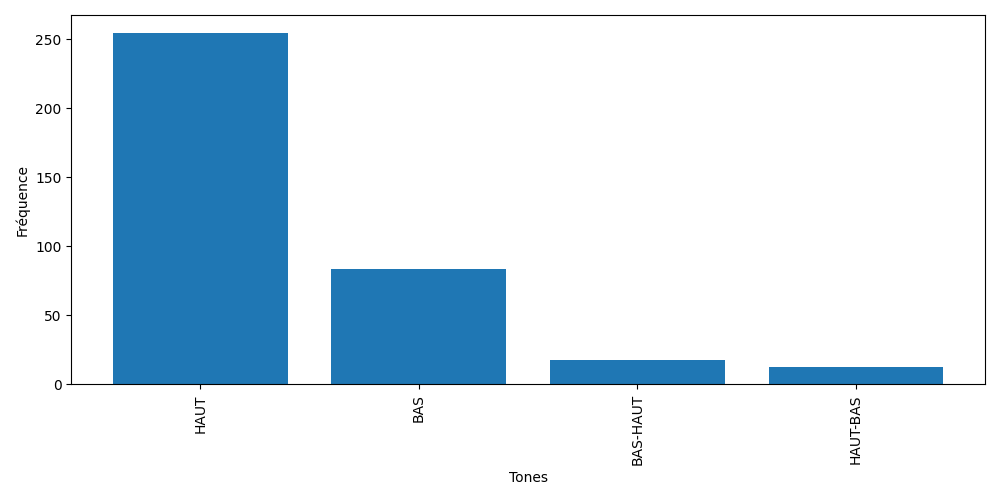
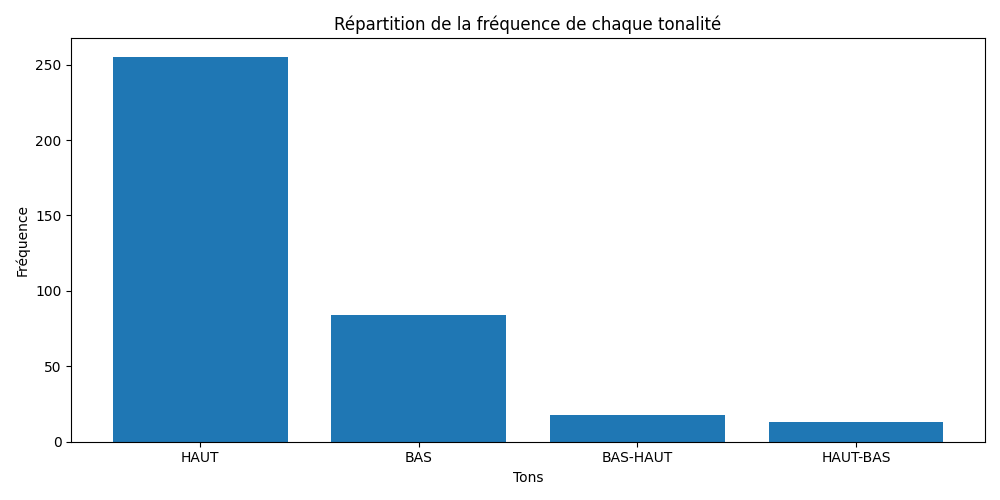
begin readme

diff --git a/Utils/phone_statistics/monophone_count.py b/Utils/phone_statistics/monophone_count.py
@@ -41,10 +41,10 @@ def draw_tone_graph(tone_count_result, output_image_file):
 
     plt.figure(figsize=(10, 5))
     plt.bar(tones, counts, color='#1f77b4')
-    plt.xlabel('Tones')
+    plt.xlabel('Tons')
     plt.ylabel('Fréquence')
-    # plt.title('Répartition de la fréquence de chaque tonalité')
-    plt.xticks(rotation=90)
+    plt.title('Répartition de la fréquence de chaque tonalité')
+    plt.xticks(rotation=360)
     plt.tight_layout()
     plt.savefig(output_image_file)
     plt.close()

diff --git a/README.md b/README.md
@@ -1,0 +1,180 @@
+# Acoustic Model Training and Evaluation
+
+This project provides scripts for training and evaluating acoustic models using monophones and triphones with various configurations. The scripts handle data preparation, feature extraction, model training, alignment, and evaluation.
+
+## Table of Contents
+
+- [Project Structure](#project-structure)
+- [Requirements](#requirements)
+- [Installation](#installation)
+- [Configuration](#configuration)
+- [Usage](#usage)
+- [Scripts Overview](#scripts-overview)
+<!-- - [Configuration](#Configuration) -->
+- [Contributing](#contributing)
+- [License](#license)
+
+## Project Structure
+```
+configs/
+    └── Config.json
+evaluation/
+    ├── evaluation.sh
+    └── make_graph.sh
+feature_extractions/
+    └── features_extractions.sh
+logs/
+    └── error.log
+main.sh
+README.md
+requirements.sh
+requirements.txt
+training/
+    ├── acoustic_model/
+    └── language_model/
+Utils/
+    ├── data_preparation/
+    ├── init_kaldi_projet_structure/
+    ├── phone_statistics/
+    │   └── phone_statistics.sh
+    ├── utils.sh
+    ├── view_ark_file.py
+    └── word_count_occurence.py
+```
+
+## Requirements
+
+- Kaldi
+- Python 3.x
+- NumPy
+- Matplotlib
+- etc
+- Check the `requirements.txt` and `requirements.sh` for more details
+
+
+## Installation
+1. Ensure Kaldi is installed and properly configured. Follow the [Kaldi installation guide](http://kaldi-asr.org/doc/install.html) for detailed instructions.
+
+2. Clone the repository:
+    ```sh
+    git clone https://github.com/yourusername/yourproject.git
+    cd yourproject
+    ```
+
+3. Install the required Python packages to your Python virtual environment:
+    ```sh
+    pip install -r requirements.txt
+    ```
+ 
+3. shell dependencies  
+    Install `jq`:
+    ```sh
+    sudo apt-get install jq
+    ```
+    or ensure that the `requirements.sh` file has execution rights and run:
+    ```sh
+    chmod +x requirements.sh
+    ./requirements.sh
+    ```
+
+
+## Configuration
+
+### Configuring `Config.json`
+
+The `Config.json` file contains paths to your Kaldi installation and Python virtual environment. Here is an example configuration:
+
+```json
+{
+    "kaldi_installation_path" : "/home/dimitri/kaldi",
+    "python_virtual_environement_path" : "/home/dimitri/NdaNdaForceAligner/myvenv"
+}
+```
+
+### Setting Environment Variables
+
+To set the Kaldi installation path as an environment variable, add the following line to your `~/.bashrc` file, replacing the path with your own Kaldi installation path:
+
+```sh
+echo 'export KALDI_INSTALLATION_PATH="/home/dimitri/kaldi"' >> ~/.bashrc
+```
+
+## Usage
+
+1. Prepare your data by placing it in the appropriate directories. You can get the data by using this [link](https://drive.google.com/drive/folders/1tY8o_-wLLheOs6_wHTcrOhRNXHpD0dI0?usp=drive_link). Inside this drive folder, you will find two folders: `mono` and `stereo`. The `mono` folder contains audio data with one channel, and the `stereo` folder contains the same data with two channels. It is recommended to use the `mono` data.
+2. Run the `initialize.sh` script located in the `init_kaldi_projet_structure/` folder. Change the directory to `init_kaldi_projet_structure/` and run the command below, where `<project_name>` is the name of the folder that will contain all the data in Kaldi format:
+
+    ```sh
+    ./initialize.sh <project_name>
+    ```
+
+    This script will create a folder named `<project_name>` inside `YOUR_KALDI_INSTALLATION_PATH/egs`. The created folder will contain all the necessary subfolders required by Kaldi to train a model.
+<p align="center">
+    <img src="https://maelfabien.github.io/assets/images/directorystructure.png" alt="Kaldi Folder Structure">
+</p>
+2. Configure the `main.sh` script with your project-specific settings.
+
+3. Run the main script:
+    ```sh
+    ./main.sh
+    ```
+
+## Scripts Overview
+
+### `main.sh`
+
+The main script orchestrates the entire process, including data preparation, feature extraction, model training, alignment, and evaluation.
+
+### `monophone_count.py`
+
+This script counts the occurrences of monophones and tones, saves the results to CSV files, and generates distribution graphs.
+
+### `triphone_count.py`
+
+This script counts the occurrences of triphones, saves the results to CSV files, and generates distribution graphs.
+
+### `Utils/data_preparation/main_data_preparation.sh`
+
+Prepares the data for training and evaluation.
+
+### `Utils/feature_extractions/features_extractions.sh`
+
+Extracts features from the data for training and testing.
+
+### `training/acoustic_model/monophone_trainning.sh`
+
+Trains monophone acoustic models.
+
+### `training/acoustic_model/triphone_training.sh`
+
+Trains triphone acoustic models with various configurations.
+
+### `training/acoustic_model/align.sh`
+
+Aligns the data using the trained models.
+
+### `evaluation/evaluation.sh`
+
+Evaluates the trained models on test data.
+
+### `evaluation/make_graph.sh`
+
+Constructs the graph for decoding.
+
+<!-- ## Configuration
+
+The `main.sh` script contains several configuration options, such as:
+
+- `project_name`: Name of the project.
+- `data_root`: Root directory for the data.
+- `nbr_job_feature_extraction`: Number of jobs for feature extraction.
+- `nbr_job_trainning`: Number of jobs for training.
+- `trainning_type`: Type of training to perform (1-5). -->
+
+## Contributing
+
+Contributions are welcome! Please fork the repository and submit a pull request.
+
+## License
+
+This project is licensed under the MIT License. See the [LICENSE](LICENSE) file for details.
